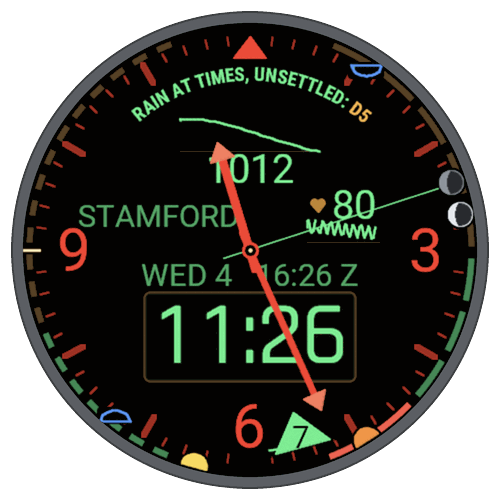
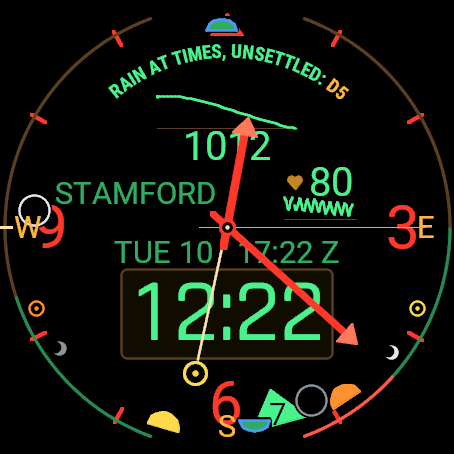
WeatherGlass page: v1.20.2 is live, no longer "coming soon"
Garmin approved WeatherGlass v1.20.2 (WX's web note, 12 Nov). The section
now reads "New in version 1.20.2 ... out now on the Connect IQ store", and
the three pictures are the v1.20.2 simulator captures from
WeatherGlass/docs/captures/ (main, pub, red), kept under the site's existing
names so no other page changes. Alt text updated to what the new captures
show (the sun and moon compass hand; the pub reminder with the beer's name).

diff --git a/content/weatherglass.md b/content/weatherglass.md
@@ -5,16 +5,16 @@ weight: 20
 platform: "Garmin watches · Connect IQ"
 description: "A watch face that keeps the ship's barometer on your wrist: the pressure trace, a forecast, the sea state, wind, sun, moon and tides, on one dial."
 image: "/images/weatherglass/main.png"
-image_alt: "The WeatherGlass watch face: pressure trace, forecast RAIN AT TIMES, UNSETTLED: D5, with wind, sun, moon and tide marks round the edge"
+image_alt: "The WeatherGlass watch face: the pressure trace at 1012, forecast RAIN AT TIMES, UNSETTLED: D5, the sun and moon compass hand, and wind, sun, moon and tide marks round the edge"
 ---
 
-{{< figure src="/images/weatherglass/main.png" alt="The WeatherGlass watch face: pressure trace, forecast RAIN AT TIMES, UNSETTLED: D5, with wind, sun, moon and tide marks round the edge" class="watch" >}}
+{{< figure src="/images/weatherglass/main.png" alt="The WeatherGlass watch face: the pressure trace at 1012, forecast RAIN AT TIMES, UNSETTLED: D5, the sun and moon compass hand, and wind, sun, moon and tide marks round the edge" class="watch" >}}
 
 WeatherGlass is a watch face for sailors. The barometer and a forecast sit at the top of the dial; wind, sun, moon and tides are marks around the edge. Everything is worked out on the watch, so it works offshore with no phone and no signal.
 
-## Coming soon: version 1.20.2
+## New in version 1.20.2
 
-Version 1.20.2 is with Garmin for approval, and will reach the Connect IQ store shortly. It brings three things.
+Version 1.20.2 is out now on the Connect IQ store. It brings three things.
 
 1. **A sun and moon compass.** A cream pointer hand points at the sun, or at the moon at night. Turn your wrist until it points at the sun, and the 12 triangle is true north, with E, S and W beside the 3, 6 and 9. Small ☉ and ☽ symbols mark where the sun and moon rise and set. It is worked out exactly from the time and your position.
 2. **The face follows the boat.** With the port set to Auto, the face shows your position to the minute, works out the sun and moon for where you are, and takes its tides from the nearest port.
@@ -54,7 +54,7 @@ Version 1.20.2 is with Garmin for approval, and will reach the Connect IQ store 
 3. **Colours that read at night,** or **Rig for red** to keep your night vision.
 4. **Two crew touches,** both optional: a pint at your chosen time, with your beer's name, and a V sign once a day.
 
-{{< figure src="/images/weatherglass/pint.png" alt="The pint reminder on the WeatherGlass face" class="watch small" >}}
+{{< figure src="/images/weatherglass/pint.png" alt="The pub reminder on the WeatherGlass face: a pint and the name of your beer" class="watch small" >}}
 
 ## Watches
 
